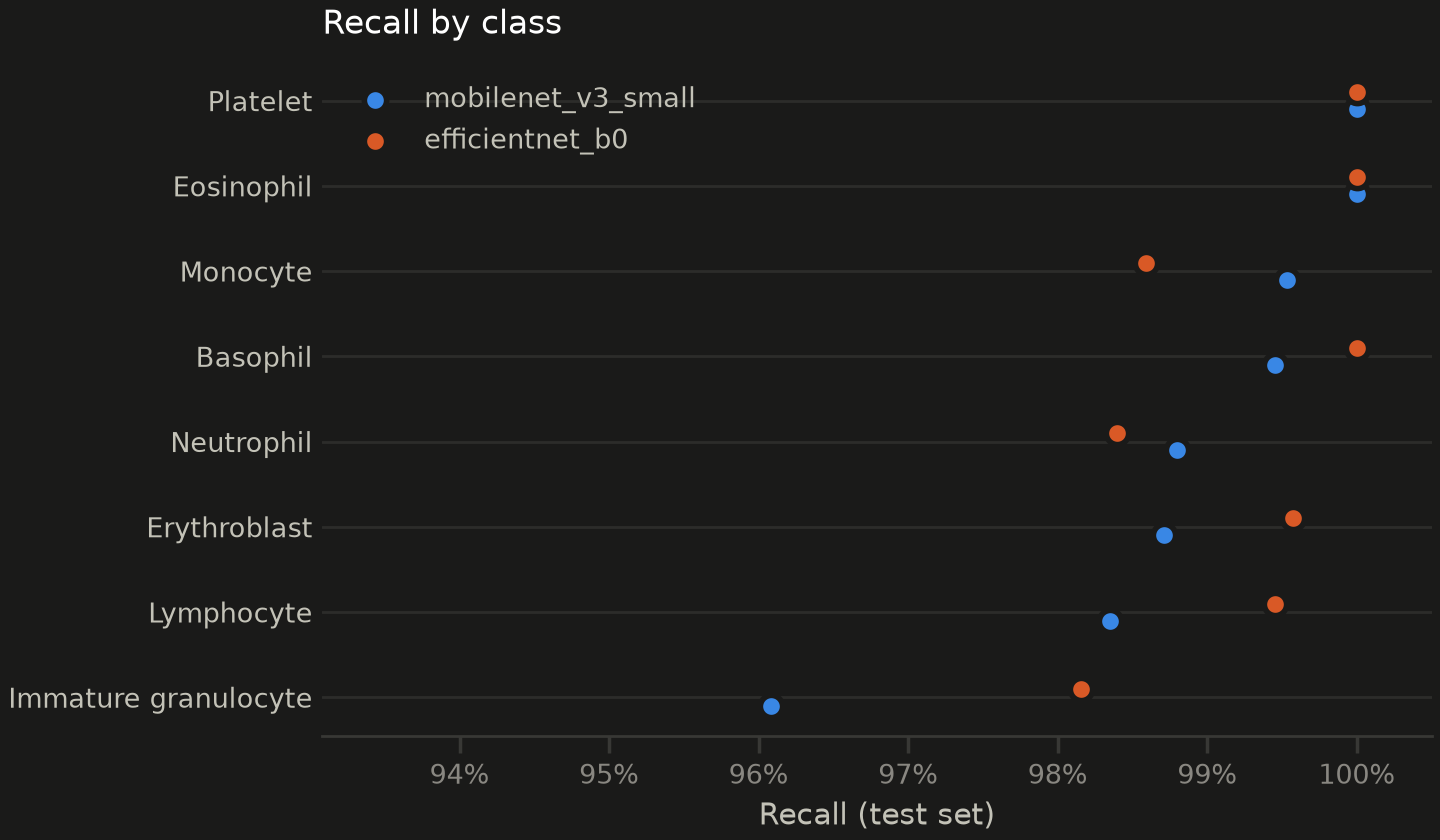
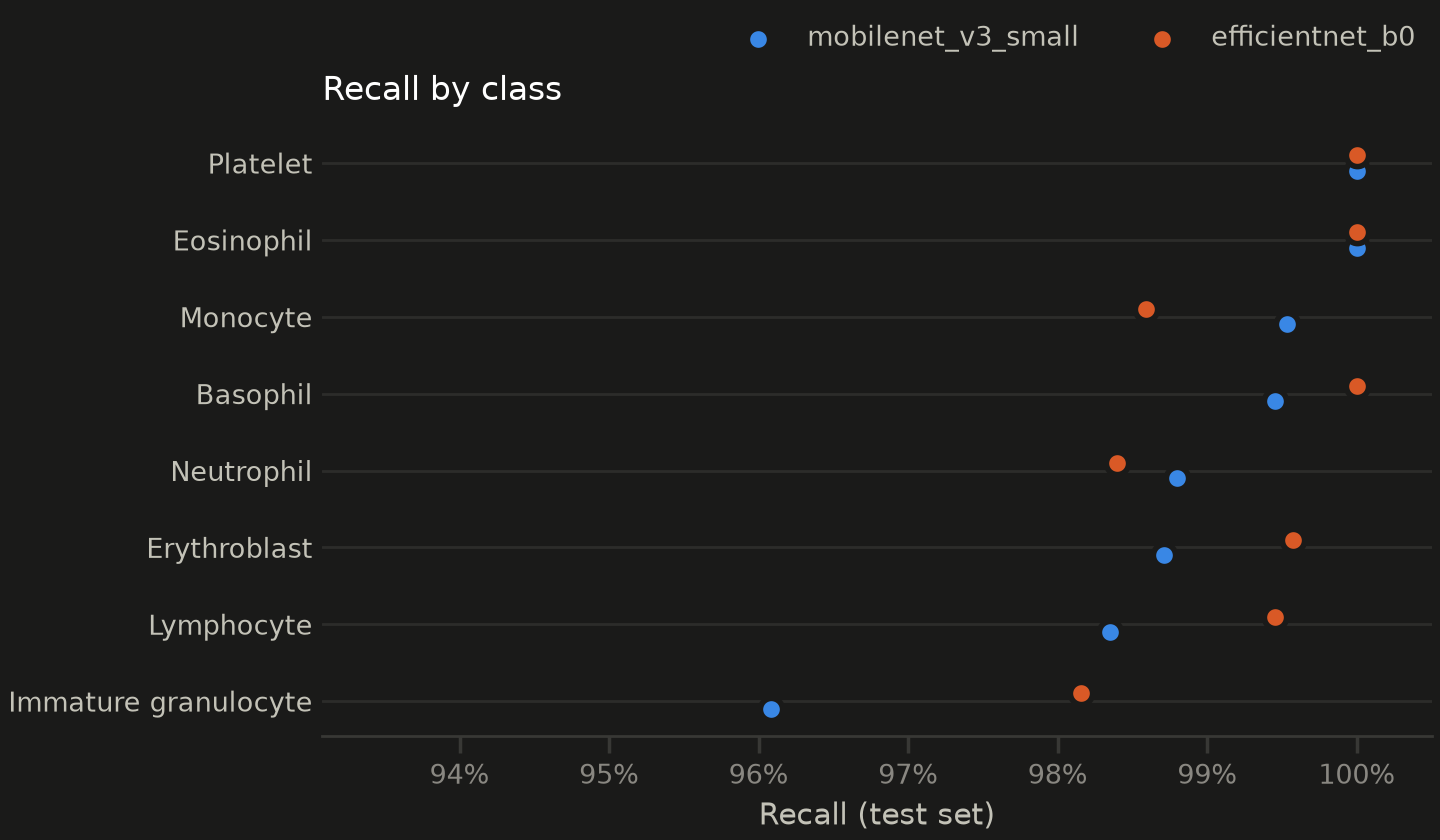
Report external validation on Raabin-WBC
Both models drop from about 99% to 39-57% balanced accuracy on another
lab's images, EfficientNet-B0 holds up clearly better than MobileNet,
and the PBC-fitted temperature makes calibration worse, not better.

diff --git a/README.md b/README.md
@@ -111,9 +111,57 @@ still helps. Sending every image below 90% confidence to a person would
 catch 14 of MobileNet's 31 errors. It would flag 41 images in all (1.6% of
 the test set), 27 of them correct.
 
-These are internal scores. The split is image-level, and every image comes
-from one lab and one analyser (see the limitation under Dataset), so they
-say little about performance at another site.
+### External validation
+
+Everything above is an internal score: the split is image-level, and every
+image comes from one lab and one analyser. To see what survives a change
+of lab, the same checkpoints were scored, without retraining, on
+[Raabin-WBC](https://www.nature.com/articles/s41598-021-04426-x) Test-A:
+4,339 cells labelled by two experts, from a lab in Iran, with a different
+microscope, camera and stain. It has five of PBC's eight classes. Setup:
+[data/README.md](data/README.md).
+
+| Model | PBC test | Raabin, forced choice of 5 | Raabin, all 8 classes | Raabin ECE, raw → T-scaled |
+|---|--:|--:|--:|--:|
+| mobilenet_v3_small | 98.9% | 53.0% | 38.5% | 8.2% → 16.0% |
+| efficientnet_b0 | 99.3% | 63.5% | 56.5% | 12.1% → 19.7% |
+
+Balanced accuracy; chance is 20%. "Forced choice" picks among the five
+classes Raabin has, which isolates the change of lab. "All 8 classes" is
+the model as it would run, where calling a Raabin cell an immature
+granulocyte, erythroblast or platelet counts as wrong. MobileNet does that
+for 25% of the cells, and EfficientNet for 12%.
+
+- **The internal score says almost nothing about another lab.** Both models
+  lose 40–60 points of balanced accuracy.
+- **The internal tie hides a real difference.** EfficientNet-B0 holds up far
+  better (56.5% against 38.5%), even though the two models are within ten
+  test images of each other on PBC. This is one seed per model, but the gap
+  is much larger than anything seen internally.
+- **The errors look like a stain shortcut.** Raabin's stain is pinker, and
+  MobileNet calls 54% of Raabin's monocytes and 24% of its neutrophils
+  eosinophils, the cell type identified by pink-orange granules. The images
+  also differ in scale (575 px crops at a different magnification, against
+  PBC's 360 px), and both are resized to 224 px.
+- **Calibration doesn't transfer.** The temperature fitted on PBC makes the
+  models more confident, which is wrong once accuracy falls: ECE on Raabin
+  roughly doubles. A confidence threshold tuned on PBC can't be trusted on
+  another lab's images.
+
+<picture>
+  <source media="(prefers-color-scheme: dark)" srcset="docs/figures/external-recall-dark.png">
+  <img alt="Recall by class on Raabin-WBC for both models. EfficientNet-B0: monocyte 85%, lymphocyte 74%, neutrophil 59%, eosinophil 37%, basophil 27%. MobileNetV3-Small: eosinophil 79%, neutrophil 60%, lymphocyte 37%, monocyte 12%, basophil 5%." src="docs/figures/external-recall.png" width="640">
+</picture>
+
+<picture>
+  <source media="(prefers-color-scheme: dark)" srcset="docs/figures/mobilenet_v3_small/external-reliability-dark.png">
+  <img alt="MobileNetV3-Small reliability, temperature-scaled: close to the diagonal on PBC test (ECE 0.6%), but well below it on Raabin-WBC at high confidence, where cells predicted with 98% confidence are right about 76% of the time (ECE 16.0%)." src="docs/figures/mobilenet_v3_small/external-reliability.png" width="480">
+</picture>
+
+Caveats: Test-A was imaged on the same equipment as Raabin's own training
+set. Test-B, from a different microscope, isn't in the copy we used. The
+mapping from Raabin's numeric labels to class names is inferred from the
+class counts in its paper and checked by eye.
 
 ## Dataset
 
@@ -134,8 +182,8 @@ the dataset's file names and class labels unchanged, plus the split each
 image was assigned to.
 
 **Limitation:** the dataset has no patient or smear IDs, so the split is
-image-level and internal test scores are likely optimistic. External
-validation on a second dataset (Raabin-WBC) is planned.
+image-level and internal test scores are likely optimistic. See External
+validation for how much they drop on another lab's images.
 
 ## Development
 
